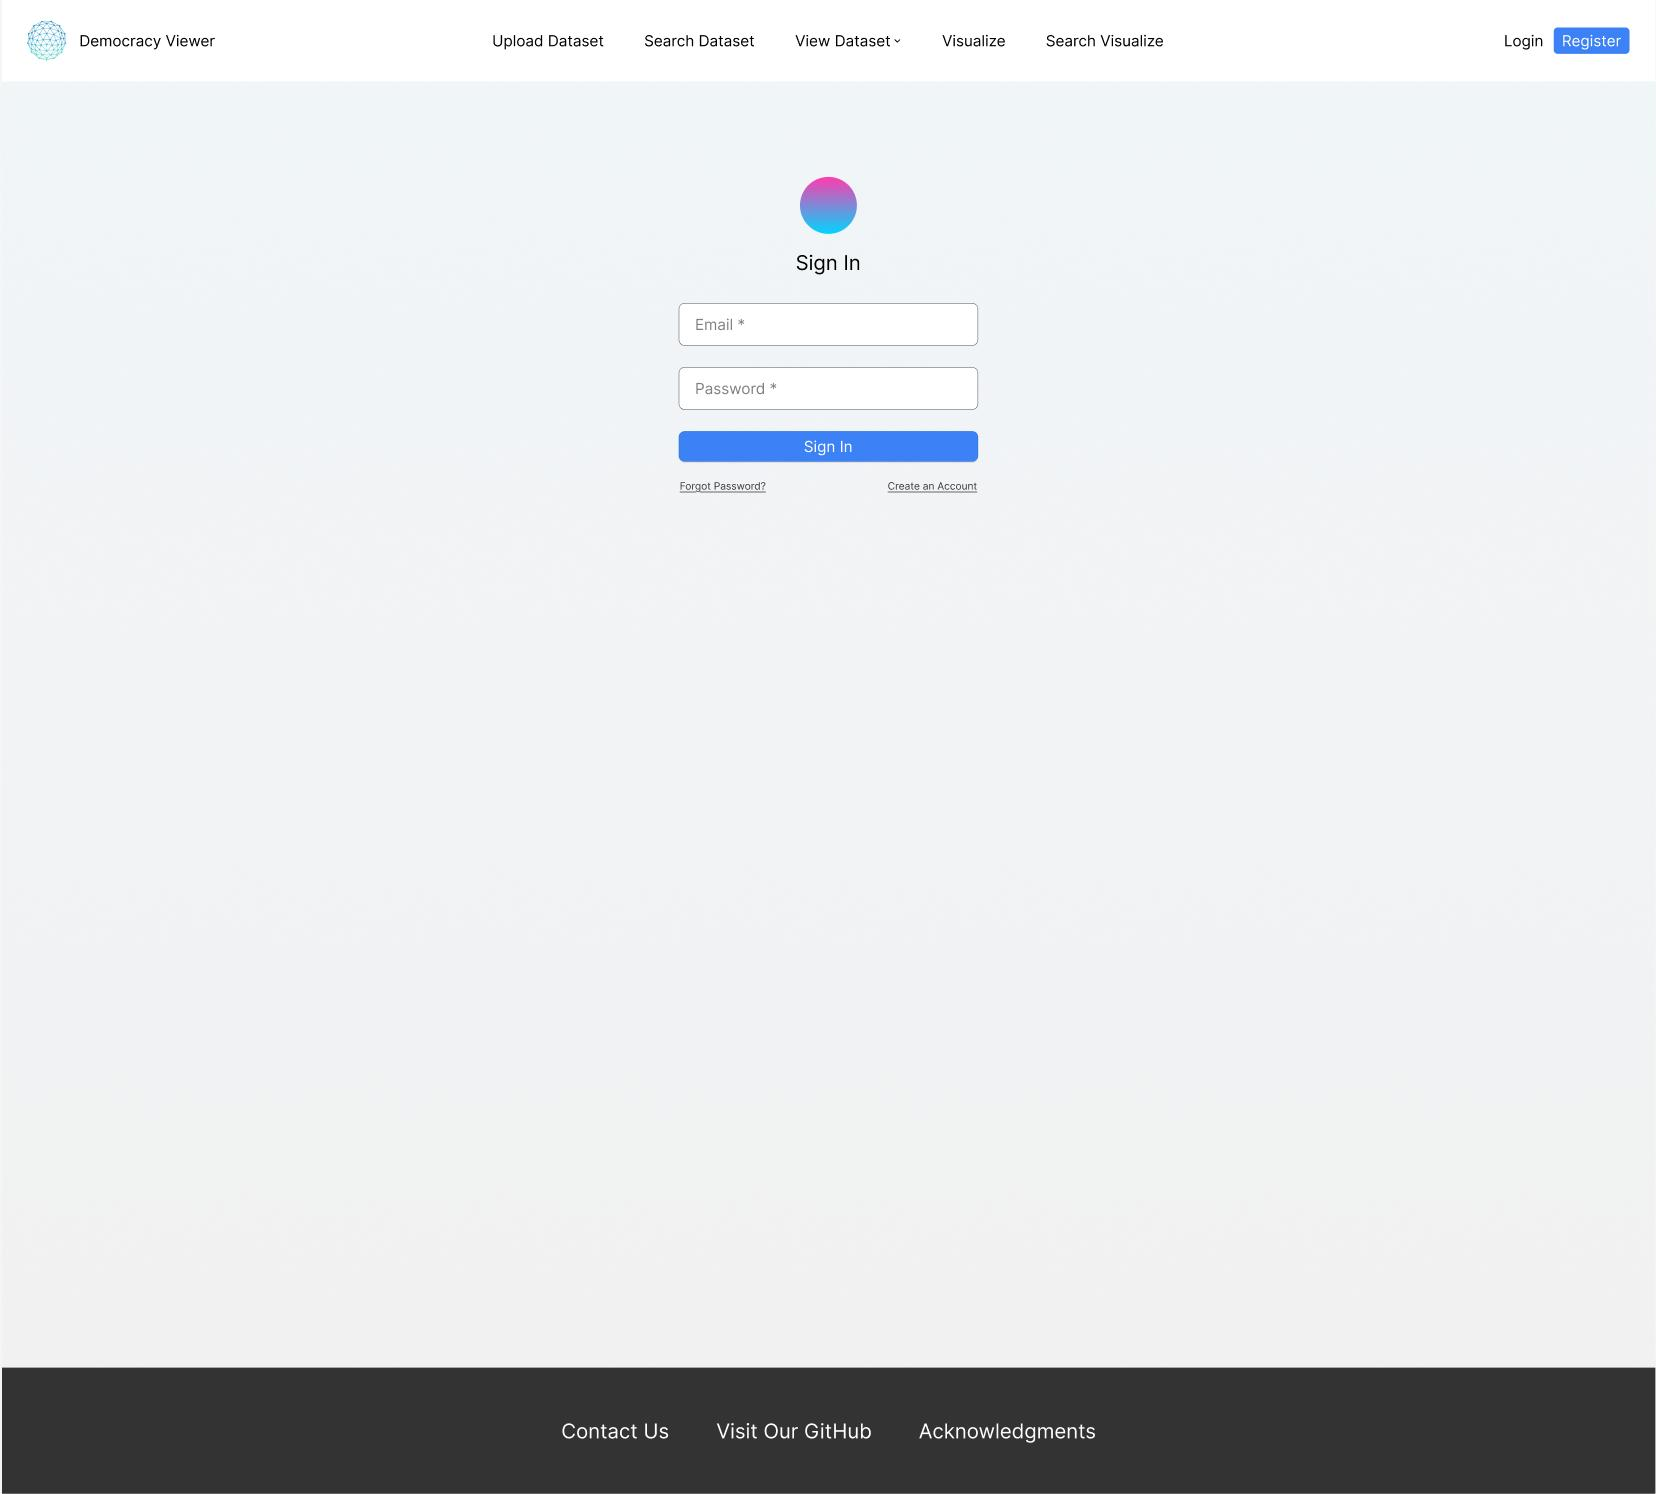
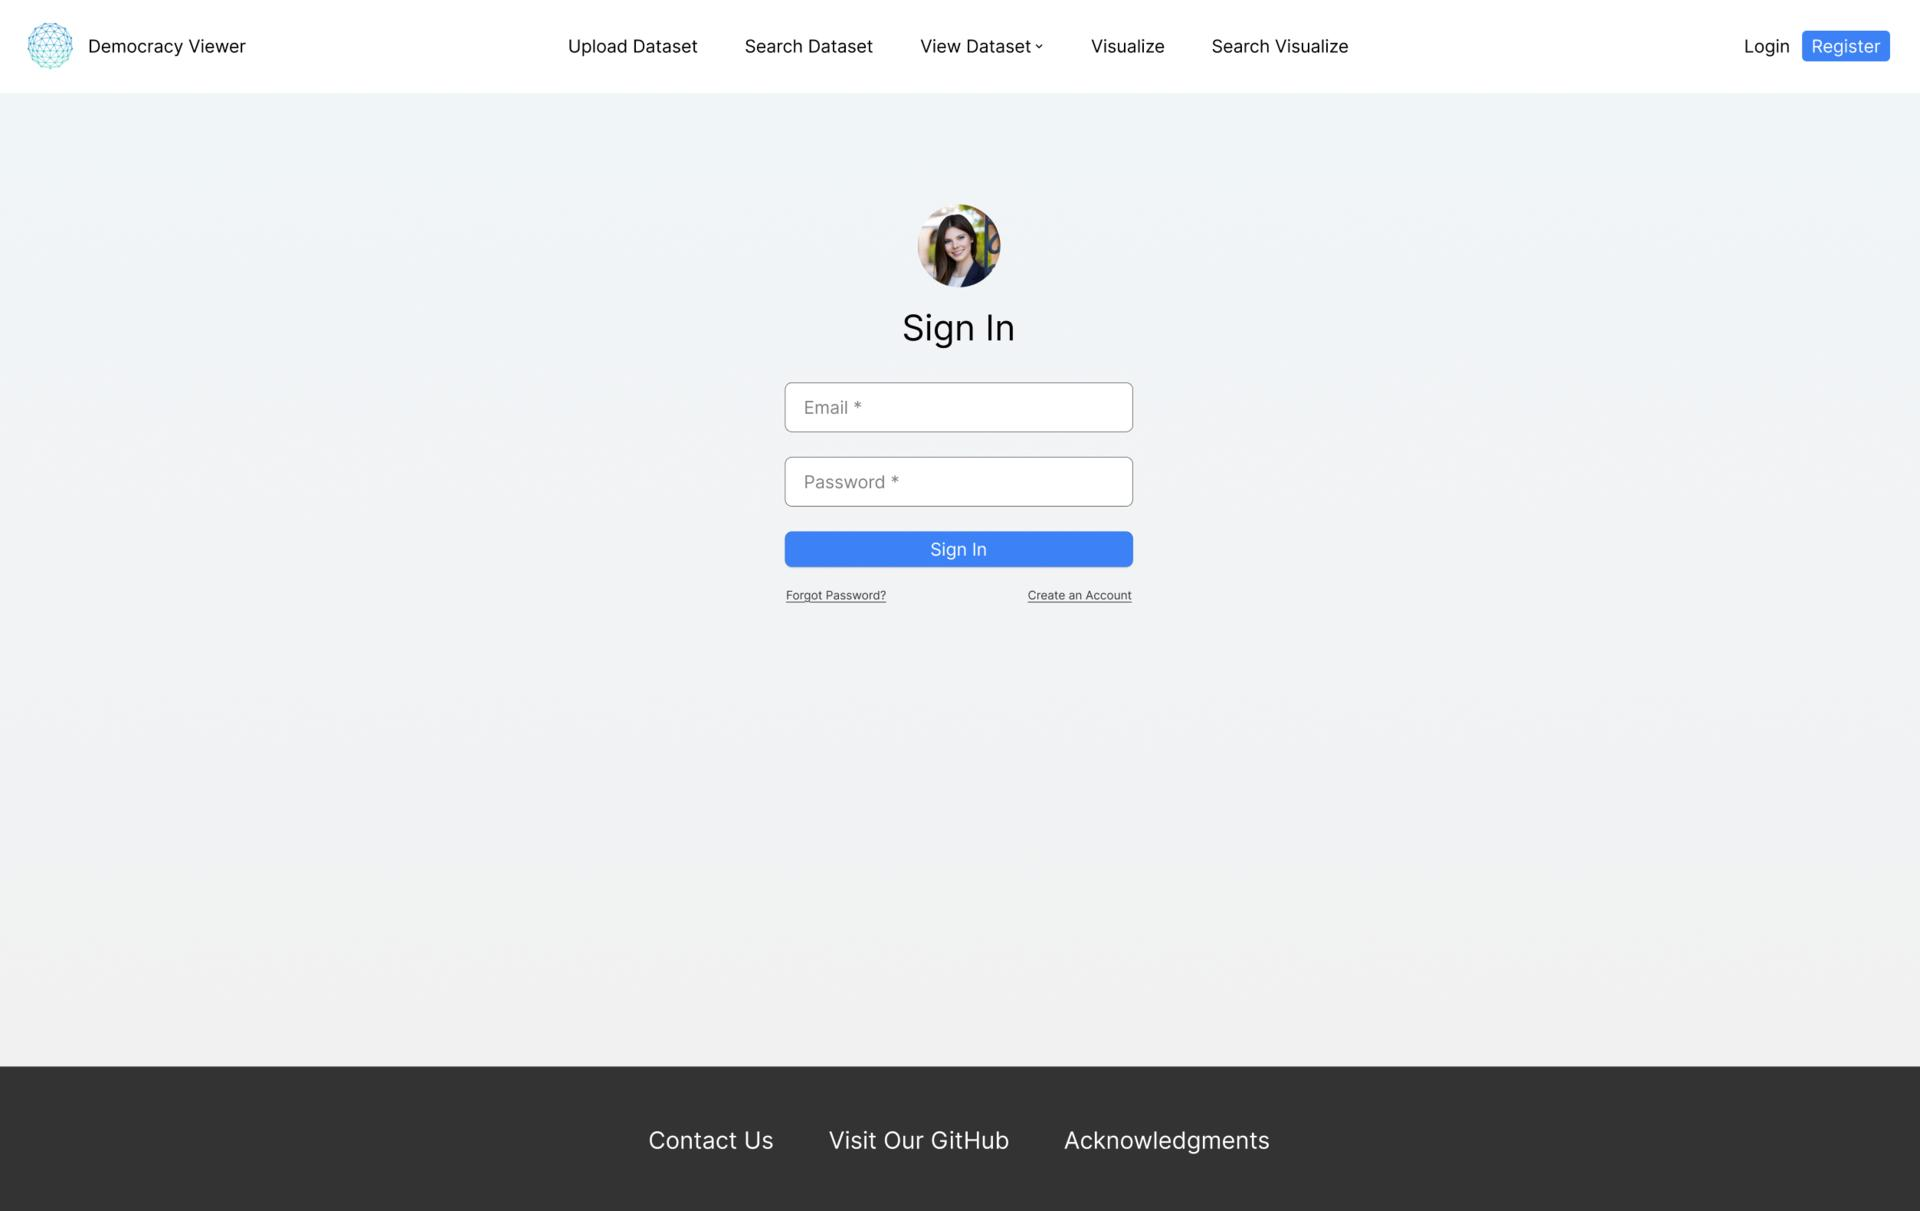
formating and spacing

diff --git a/public/css/generative.css b/public/css/generative.css
@@ -3,23 +3,23 @@
 /* page gradient override */
 .gradient-gen { background: linear-gradient(160deg, #d8eef8 0%, #e0d5f0 50%, #f0d5e8 100%) !important; }
 
-.gallery-section { padding: 0.5rem var(--side) 2rem; max-width: 1400px; margin: 0 auto; }
+.gallery-section { padding: 0.5rem var(--side) 1.5rem; max-width: 1400px; margin: 0 auto; }
 .section-divider {
   width: 100%; height: 1px;
   background: linear-gradient(90deg, transparent, rgba(200,170,100,0.3), transparent);
-  margin: 4rem 0 3rem;
+  margin: 3rem 0 2.5rem;
 }
 .subsection-label {
   font-size: 0.65rem; font-weight: 500; letter-spacing: 0.22em;
-  text-transform: uppercase; color: var(--text-light); margin-bottom: 1.5rem;
+  text-transform: uppercase; color: var(--text-light); margin-bottom: 1.2rem;
 }
 
 /* cards */
-.installations-grid { display: flex; flex-direction: column; gap: 1.5rem; }
+.installations-grid { display: flex; flex-direction: column; gap: 1.25rem; }
 
 .install-card {
   display: grid; grid-template-columns: 1fr 1fr; gap: 0;
-  border-radius: 16px; overflow: hidden;
+  border-radius: 14px; overflow: hidden;
   background: rgba(255,255,255,0.35);
   border: 1px solid rgba(200,170,200,0.2);
   transition: box-shadow 0.35s ease, transform 0.35s ease;
@@ -30,34 +30,34 @@
 .install-video-wrap video { width: 100%; height: 100%; object-fit: cover; display: block; }
 
 .install-info {
-  padding: 2.5rem; display: flex; flex-direction: column;
-  justify-content: center; gap: 1rem;
+  padding: 2rem; display: flex; flex-direction: column;
+  justify-content: center; gap: 0.75rem;
 }
-.install-eyebrow { font-size: 0.65rem; font-weight: 500; letter-spacing: 0.22em; text-transform: uppercase; color: var(--text-light); }
-.install-title { font-family: var(--serif); font-size: clamp(1.8rem, 3vw, 2.8rem); font-weight: 300; line-height: 1; color: var(--text-dark); }
-.install-meta { font-size: 0.72rem; color: var(--text-light); letter-spacing: 0.05em; line-height: 1.6; }
-.install-desc { font-family: var(--serif); font-size: 1rem; font-style: italic; font-weight: 300; color: var(--text-mid); line-height: 1.65; }
+.install-eyebrow { font-size: 0.62rem; font-weight: 500; letter-spacing: 0.22em; text-transform: uppercase; color: var(--text-light); }
+.install-title { font-family: var(--serif); font-size: clamp(1.5rem, 2.5vw, 2.4rem); font-weight: 300; line-height: 1; color: var(--text-dark); }
+.install-meta { font-size: 0.7rem; color: var(--text-light); letter-spacing: 0.05em; line-height: 1.6; }
+.install-desc { font-family: var(--serif); font-size: 0.95rem; font-style: italic; font-weight: 300; color: var(--text-mid); line-height: 1.65; }
 .install-btn {
   display: inline-flex; align-items: center; gap: 0.6rem;
-  padding: 0.75rem 1.5rem;
+  padding: 0.65rem 1.3rem;
   background: linear-gradient(135deg, var(--peach), var(--blush));
   border: 1px solid rgba(200,170,100,0.25); border-radius: 100px;
-  font-size: 0.75rem; font-weight: 500; letter-spacing: 0.1em;
+  font-size: 0.72rem; font-weight: 500; letter-spacing: 0.1em;
   text-transform: uppercase; color: var(--text-dark); text-decoration: none;
   transition: transform 0.25s ease, box-shadow 0.25s ease, gap 0.25s;
-  align-self: flex-start; margin-top: 0.5rem;
+  align-self: flex-start; margin-top: 0.25rem;
 }
 .install-btn:hover { transform: translateY(-2px); box-shadow: 0 10px 28px rgba(248,200,128,0.35); gap: 0.85rem; }
 .install-btn-arrow { font-size: 1rem; }
 
 /* video grid  */
-.video-grid { display: grid; grid-template-columns: repeat(2, 1fr); gap: var(--gap); }
-.video-card { border-radius: 14px; overflow: hidden; }
+.video-grid { display: grid; grid-template-columns: repeat(2, 1fr); gap: 1.5rem; }
+.video-card { border-radius: 14px; overflow: hidden; margin-bottom: 0.5rem; }
 .video-frame { width: 100%; aspect-ratio: 16/9; background: #0e0a1a; border-radius: 14px; overflow: hidden; }
 .video-frame video { width: 100%; height: 100%; object-fit: cover; display: block; border-radius: 14px; }
-.video-caption { padding: 0.6rem 0.1rem 0.3rem; }
-.video-caption p { font-family: var(--serif); font-size: 0.92rem; color: var(--text-dark); line-height: 1.3; }
-.video-caption small { font-size: 0.68rem; color: var(--text-light); letter-spacing: 0.06em; display: block; margin-top: 0.15rem; }
+.video-caption { padding: 0.75rem 0.1rem 0.5rem; }
+.video-caption p { font-family: var(--serif); font-size: 1.15rem; color: var(--text-dark); line-height: 1.3; }
+.video-caption small { font-size: 0.75rem; color: var(--text-light); letter-spacing: 0.06em; display: block; margin-top: 0.2rem; }
 
 /* responsive */
 @media (max-width: 900px) {

diff --git a/public/css/global.css b/public/css/global.css
@@ -154,7 +154,7 @@ footer em { font-family: var(--serif); font-style: italic; }
   margin-bottom: 2.5rem;
 }
 
-.page-hero { padding: 9rem var(--side) 3.5rem; max-width: 1400px; margin: 0 auto; }
+.page-hero { padding: 7rem var(--side) 2.5rem; max-width: 1400px; margin: 0 auto; }
 .back-link {
   display: inline-flex; align-items: center; gap: 0.5rem;
   font-size: 0.75rem; font-weight: 500; letter-spacing: 0.12em;
@@ -167,15 +167,15 @@ footer em { font-family: var(--serif); font-style: italic; }
   text-transform: uppercase; color: var(--text-light); margin-bottom: 0.7rem;
 }
 .page-title {
-  font-family: var(--serif); font-size: clamp(2.8rem, 6vw, 6rem);
-  font-weight: 300; line-height: 0.95; color: var(--text-dark); margin-bottom: 1.3rem;
+  font-family: var(--serif); font-size: clamp(2.2rem, 5vw, 5rem);
+  font-weight: 300; line-height: 0.95; color: var(--text-dark); margin-bottom: 1rem;
 }
 .page-desc {
-  font-family: var(--serif); font-size: clamp(0.95rem, 1.8vw, 1.2rem);
+  font-family: var(--serif); font-size: clamp(0.88rem, 1.5vw, 1.05rem);
   font-style: italic; font-weight: 300; color: var(--text-mid);
   max-width: 520px; line-height: 1.65;
 }
-.page-tags { display: flex; flex-wrap: wrap; gap: 0.45rem; margin-top: 1.5rem; }
+.page-tags { display: flex; flex-wrap: wrap; gap: 0.45rem; margin-top: 1.1rem; }
 .tag {
   display: inline-block; padding: 0.28rem 0.85rem; font-size: 0.7rem;
   font-weight: 500; letter-spacing: 0.08em; text-transform: uppercase;

diff --git a/public/css/gallery.css b/public/css/gallery.css
@@ -23,8 +23,8 @@
 .card-frame img { width: 100%; height: auto; display: block; transition: transform 0.45s cubic-bezier(0.23,1,0.32,1); }
 .art-card:hover .card-frame img { transform: scale(1.04); }
 .card-caption { padding: 0.5rem 0.1rem 0.15rem; }
-.card-caption p { font-family: var(--serif); font-size: 0.88rem; color: var(--text-dark); line-height: 1.3; }
-.card-caption small { font-size: 0.68rem; color: var(--text-light); letter-spacing: 0.05em; display: block; margin-top: 0.1rem; }
+.card-caption p { font-family: var(--serif); font-size: 1.15rem; color: var(--text-dark); line-height: 1.3; }
+.card-caption small { font-size: 0.75rem; color: var(--text-light); letter-spacing: 0.05em; display: block; margin-top: 0.1rem; }
 
 /*  traditional art grid  */
 /* oil & acrylic: */
